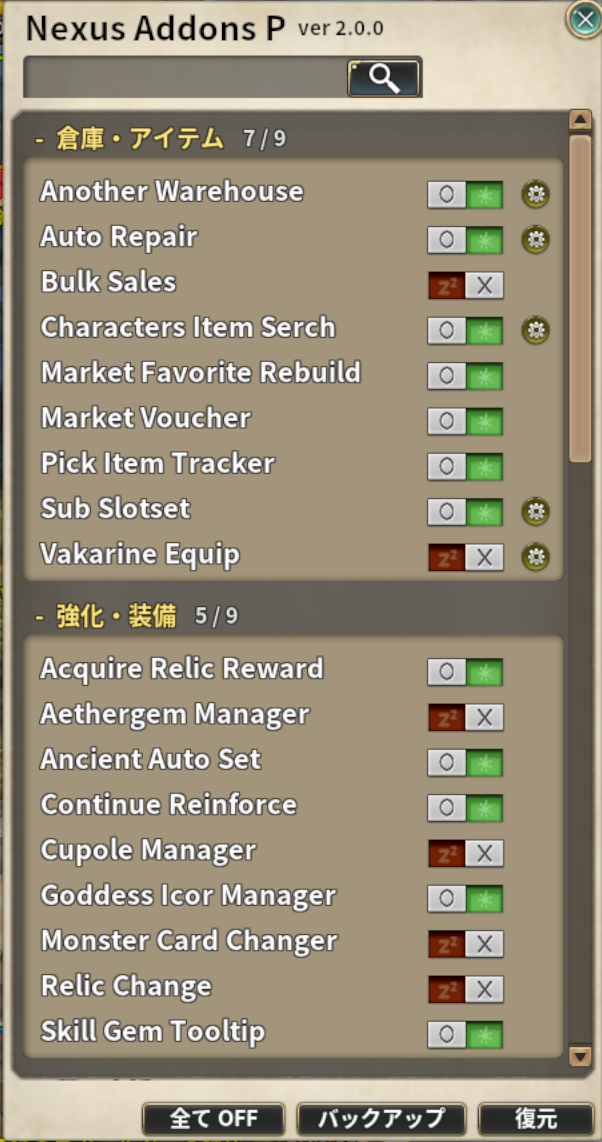
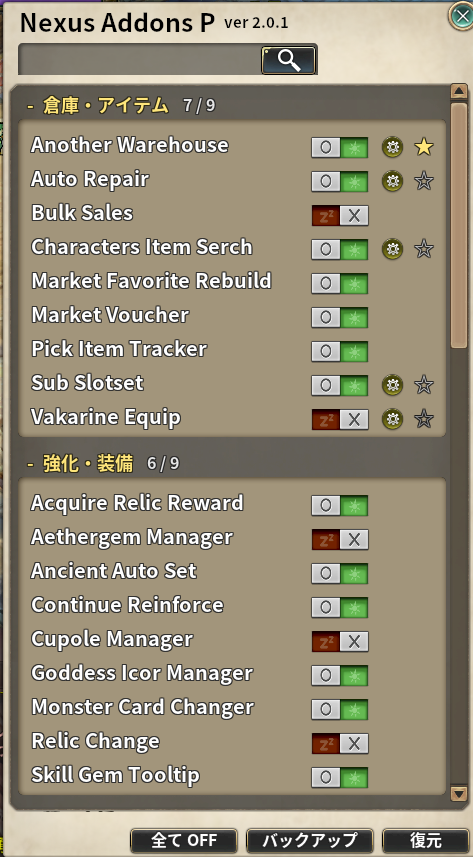
docs: README のスクリーンショットを撮り直して使い方の説明を追従させる
Addons Menu のショートカット追加・アイコン選択・設定画面のタブ化で
変わった画面を撮り直し、alt テキストと本文を実際の画面へ揃える。

* 差し替え: 03-addon-list / 02-sysmenu-right-click / 04-addons-menu-settings
* 新規: 07-icon-picker / 08-addons-menu-layout /
  09-addons-menu-shortcuts / 10-icon-picker-search
* 一覧の行に☆の説明を足し、設定画面の節をタブごと(共通 / 並び /
  ショートカット)に分割。アイコン選択の節を新設
* ☆は OFF のアドオンにも薄く出る(押せないだけ)ので、更新履歴の
  「☆が付きません」という書き方も訂正

Closes #102

Changed region(s): [[0.0, 0.0, 1.0, 1.0]]

diff --git a/nexus_addons_p/README.md b/nexus_addons_p/README.md
@@ -38,7 +38,7 @@ norisan さんの [Nexus Addons](https://github.com/ajinorisan/TOSAddon-public) 
 * システムメニュー側から開いたメニューには、末尾に **「Addons Menu の設定」** が並びます
   （こちらは右クリックが「メニューを開く」に使われているため、項目として用意しています）。
 
-  ![アイコン列右端のシステムメニューボタン（≡）を右クリックして上に開いたメニュー。末尾に歯車の「Addons Menu の設定」が並ぶ](images/02-sysmenu-right-click.png)
+  ![アイコン列右端のシステムメニューボタン（≡）を右クリックして上に開いたメニュー。☆で選んだアドオンの設定画面が縦に並び、末尾に歯車の「Addons Menu の設定」が来る](images/02-sysmenu-right-click.png)
 
 * 右上のフローティングボタンは、下記の設定で**消してシステムメニューの右クリックだけにする**
   こともできます。
@@ -48,15 +48,16 @@ norisan さんの [Nexus Addons](https://github.com/ajinorisan/TOSAddon-public) 
 
 アドオンは「倉庫・アイテム」「強化・装備」「戦闘支援」「ダンジョン・コンテンツ」
 「キャラクター・移動」「その他」の**カテゴリごと**に並びます。各行に、アドオン名と
-次の 3 つが並びます。
+次の 4 つが並びます。
 
-![アドオン一覧ウィンドウ。カテゴリごとにアドオン名・ON/OFF トグル・⚙ が並び、下段に一括操作のボタンがある](images/03-addon-list.png)
+![アドオン一覧ウィンドウ。カテゴリごとにアドオン名・ON/OFF トグル・⚙・☆ が並び、Another Warehouse の☆だけ点灯している。下段に一括操作のボタンがある](images/03-addon-list.png)
 
 | 表示 | 内容 |
 | --- | --- |
 | **アドオン名** | カーソルを乗せると、そのアドオンの説明がツールチップで出ます |
 | **ON / OFF トグル** | そのアドオンの有効・無効を切り替えます。切り替えは即座に反映され、保存されます |
 | **⚙（設定フレーム呼出し）** | 設定画面を持つアドオンだけに表示されます。押すとそのアドオンの設定画面が開きます |
+| **☆（Addons Menu へ出す）** | ⚙ を持つアドオンだけに表示されます。押して★にすると、そのアドオンの設定画面を開くボタンがメニューに並びます。**右クリックでアイコンを選べます**（下記「4. ショートカットのアイコンを選ぶ」）。アドオンを OFF にしている間は薄く表示され、押せません |
 
 ![アドオン名にカーソルを乗せて説明のツールチップが出たところ](images/05-addon-tooltip.png)
 
@@ -80,21 +81,70 @@ norisan さんの [Nexus Addons](https://github.com/ajinorisan/TOSAddon-public) 
 ### 3. Addons Menu の設定
 
 右上のフローティングボタンを**右クリック**（またはシステムメニュー側のメニューの
-「Addons Menu の設定」）で開きます。
+「Addons Menu の設定」）で開きます。画面は **「共通」「並び」「ショートカット」の 3 つのタブ**に
+分かれています。
 
-![Addons Menu の設定画面。デフォルトに戻す・フレーム固定・上開き・詳細なログ・システムメニューのみ・レイヤー設定が並ぶ](images/04-addons-menu-settings.png)
+#### 共通タブ
+
+どこから開いても同じ、全体に効く設定です。
+
+![Addons Menu の設定画面の「共通」タブ。デフォルトに戻す・フレーム固定・詳細なログ・システムメニューの右クリックのみにする・レイヤー設定・初期化の速さが縦に並び、下に注記の枠がある](images/04-addons-menu-settings.png)
 
 | 項目 | 内容 |
 | --- | --- |
 | **デフォルトに戻す** | 位置・レイヤーなどを初期値へ戻します |
 | **チェックするとフレーム固定** | フローティングボタンをドラッグで動かせないようにします |
-| **チェックすると上開き** | メニューをボタンの上方向へ開きます |
 | **詳細なログをシステムに出力する** | 動作の詳細をチャットのシステムメッセージと `../addons/_nexus_addons_p/verbose_log.txt` に出します。**不具合を報告するときは、これを ON にして再現し、`verbose_log.txt` を添えていただけると調査が早く進みます**（既定は OFF） |
-| **システムメニューの右クリックのみにする(右上のボタンを消す)** | 右上のフローティングボタンを消します。システムメニューの右クリックは常に使えるので、これだけで運用できます |
+| **システムメニューの右クリックのみにする** | 右上のフローティングボタンを消します。システムメニューの右クリックは常に使えるので、これだけで運用できます |
 | **レイヤー設定** | 他のウィンドウとの重なり順を数値で指定します（既定 79） |
+| **初期化の速さ** | ログイン直後に 1 回で初期化するアドオンの数です（1〜12 / 推奨 4）。大きいほど早く出そろいますが、そのぶんログイン直後が重くなります。Enter で確定し、**次のログインから反映されます** |
+
+#### 並びタブ
+
+メニューの並べ方を、**「右上のメニュー」と「システムメニュー」で別々に**決められます。
+左右に並んでいるので、どちらを触っているか見ながら設定できます。
+
+![Addons Menu の設定画面の「並び」タブ。右上のメニューとシステムメニューが左右に並び、それぞれ「並べる向き（横／縦）」「折り返す数」を持つ。上へ開くは右上のメニュー側だけチェックボックスがある](images/08-addons-menu-layout.png)
+
+| 項目 | 内容 |
+| --- | --- |
+| **並べる向き** | **横**＝横に並べて、下へ折り返します。**縦**＝縦に積んで、横へ折り返します |
+| **折り返す数** | 折り返すまでの個数です（1〜30）。Enter で確定します |
+| **上へ開く** | メニューをボタンの上方向へ開きます。**右上のメニューだけの設定**で、システムメニュー側は画面の端に合わせて自動で上下します |
+
+#### ショートカットタブ
+
+メニューに並べる項目の**順番とアイコン**を決める場所です。
+**他のアドオンが Addons Menu へ登録した項目もここに出ます**（そちらはアドオン一覧に行を持たないため、
+ここが唯一の管理場所になります）。
+
+![Addons Menu の設定画面の「ショートカット」タブ。1 行ごとにアイコン・名前・▲▼・★・「アイコン」ボタンが並び、上部に表示切り替えのボタンと件数がある](images/09-addons-menu-shortcuts.png)
+
+| 表示 | 内容 |
+| --- | --- |
+| **▲ / ▼** | メニューでの並び順を 1 つずつ動かします |
+| **★ / ☆** | メニューへ出す・出さないを切り替えます（アドオン一覧の☆と同じものです）。アドオンを OFF にしている間は切り替えられません |
+| **アイコン** | クリックでアイコン選択を開きます。**右クリックで既定のアイコンに戻ります** |
+| **左上のボタン** | 既定では**メニューへ出している項目だけ**が並びます。いちど外した項目を戻したいときは、ここを押して「出していない項目も表示」に切り替えます |
+
+### 4. ショートカットのアイコンを選ぶ
+
+アドオン一覧の**☆を右クリック**、またはショートカットタブの**「アイコン」ボタン**で開きます。
+タブが 3 つあります。
+
+![アイコン選択ウィンドウの「定型」タブ。よく使う候補のアイコンが格子状に並び、上部に対象のアドオン名が出ている](images/07-icon-picker.png)
+
+| タブ | 内容 |
+| --- | --- |
+| **定型** | よく使う候補を並べたものです。押すとその場で決まります |
+| **検索** | 言葉を入れて **Enter**（または虫眼鏡ボタン）で探します。「UI アイコン」は画像名で、「スキルアイコン」はスキル名で当たります |
+| **直接入力** | 一覧に無い画像名を直接指定します。実在しない名前は空白になるので、プレビューで確かめてから決められます |
+
+![アイコン選択ウィンドウの「検索」タブ。`sys` で検索し、「UI アイコン」と「スキルアイコン」の 2 セクションに分かれて結果が並んでいる](images/10-icon-picker-search.png)
 
 これらの設定は `../addons/_nexus_addons_p/<アカウントID>/addons_menu.json` に保存されます
-（「詳細なログ」だけは全体設定のため `settings.json` 側に保存されます）。
+（「詳細なログ」「初期化の速さ」と、ショートカットの並び順・アイコンは全体設定のため
+`settings.json` 側に保存されます）。
 
 ---
 
@@ -237,8 +287,8 @@ Nexus Addons P は本家をリネームした派生版のため、**両方を同
     次のログインで 10 セットが自動で揃います（既に作ってあるセットはそのまま残ります）
   * **アドオンの設定画面を Addons Menu へ並べられるようになりました**。アドオン一覧の各行に
     ☆が付き、押すと右上のメニューとシステムメニュー右クリックの一覧に、その設定画面を開く
-    ボタンが並びます（☆の右クリックでアイコンを選べます）。設定画面を持たないアドオンと、
-    OFF にしているアドオンには☆が付きません
+    ボタンが並びます（☆の右クリックでアイコンを選べます）。設定画面を持たないアドオンには
+    ☆が付きません。OFF にしているアドオンの☆は薄く表示され、押せません
   * **並べたボタンのアイコンを選べるようになりました**。タブが 3 つあります。
     **定型**（システムメニューのアイコンやゲームの各種ボタンなど）、
     **検索**（言葉を入れると「UI アイコン」と「スキルアイコン」に分けて候補が出ます）、
